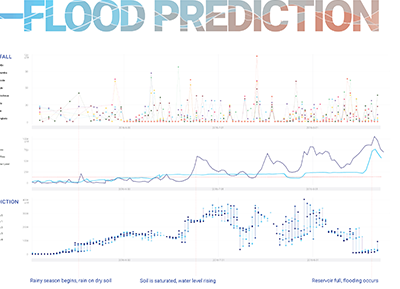
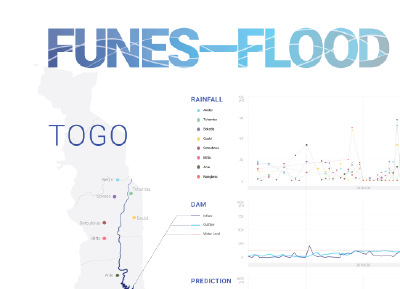
add detail images for carbon emission, flood prediction. adjust the layout

diff --git a/index.html b/index.html
@@ -96,7 +96,7 @@
                         </a>
                         <div class="portfolio-caption">
                             <h4>Togo Flood Prediction</h4>
-                            <p class="text-muted">Dataviz, Inforgraphic, Graphic Design</p>
+                            <p class="text-muted">Dataviz, Inforgraphic</p>
                         </div>
                     </div>
                     <div class="col-md-4 col-sm-6 portfolio-item">
@@ -180,7 +180,7 @@
                         </a>
                         <div class="portfolio-caption">
                             <h4>Concept Maps</h4>
-                            <p class="text-muted">Design Theory, Book Design, Concept Map</p>
+                            <p class="text-muted">Design Theory,Concept Map</p>
                         </div>
                     </div>
 
@@ -351,6 +351,12 @@
                                     <p>FUNES is the name of a flood prediction algorithm. It successfully predicted floods this summer on Togo. T
                                       he project is making a poster showing the mechanism of the prediction algorithm to public. I used R to analysis data and plot charts. The graphic design part is made by Adobe Illustrator.</p>
                                     </div>
+                                    <h3>Details</h3>
+                                    <img class="img-responsive img-centered" src="img/portfolio/togo-poster-lg-05.png" alt="">
+                                    <img class="img-responsive img-centered" src="img/portfolio/togo-poster-lg-01.png" alt="">
+                                    <img class="img-responsive img-centered" src="img/portfolio/togo-poster-lg-02.png" alt="">
+                                    <img class="img-responsive img-centered" src="img/portfolio/togo-poster-lg-03.png" alt="">
+                                    <img class="img-responsive img-centered" src="img/portfolio/togo-poster-lg-04.png" alt="">
                                     <button type="button" class="btn btn-primary" data-dismiss="modal"><i class="fa fa-times"></i> Close Project</button>
                                 </div>
                             </div>
@@ -470,12 +476,19 @@
                                         <li>Instructor: Ernesto Aparicio</li>
                                         <li>#Graphic Design# #Inforgraphic#</li>
                                     </ul>
-                                    <img class="img-responsive img-centered" src="img/portfolio/carbonemission-lg-11.png" alt="">
-                                    <img class="img-responsive img-centered" src="img/portfolio/carbonemission-lg-22.png" alt="">
+                                    <img class="img-responsive img-centered" src="img/portfolio/carbonemission-lg-1.png" alt="">
+                                    <img class="img-responsive img-centered" src="img/portfolio/carbonemission-lg-2.png" alt="">
                                     <div class="text-left">
                                         <p>This is a poster describing global carbon emission and discussing the reason why China has been the world's largest country on carbon emission. All the data and information come from open-sourced data.</p>
                                         <p>See more on Behance<a href="https://www.behance.net/gallery/33023095/Carbon-Emission">Behance</a>.</p>
                                     </div>
+                                    <h3>Details</h3>
+                                    <img class="img-responsive img-centered" src="img/portfolio/carbonemission-lg-1-01.png" alt="">
+                                    <img class="img-responsive img-centered" src="img/portfolio/carbonemission-lg-1-02.png" alt="">
+                                    <img class="img-responsive img-centered" src="img/portfolio/carbonemission-lg-1-03.png" alt="">
+                                    <img class="img-responsive img-centered" src="img/portfolio/carbonemission-lg-2-01.png" alt="">
+                                    <img class="img-responsive img-centered" src="img/portfolio/carbonemission-lg-2-02.png" alt="">
+                                    <img class="img-responsive img-centered" src="img/portfolio/carbonemission-lg-2-03.png" alt="">
                                     <button type="button" class="btn btn-primary" data-dismiss="modal"><i class="fa fa-times"></i> Close Project</button>
                                 </div>
                             </div>
